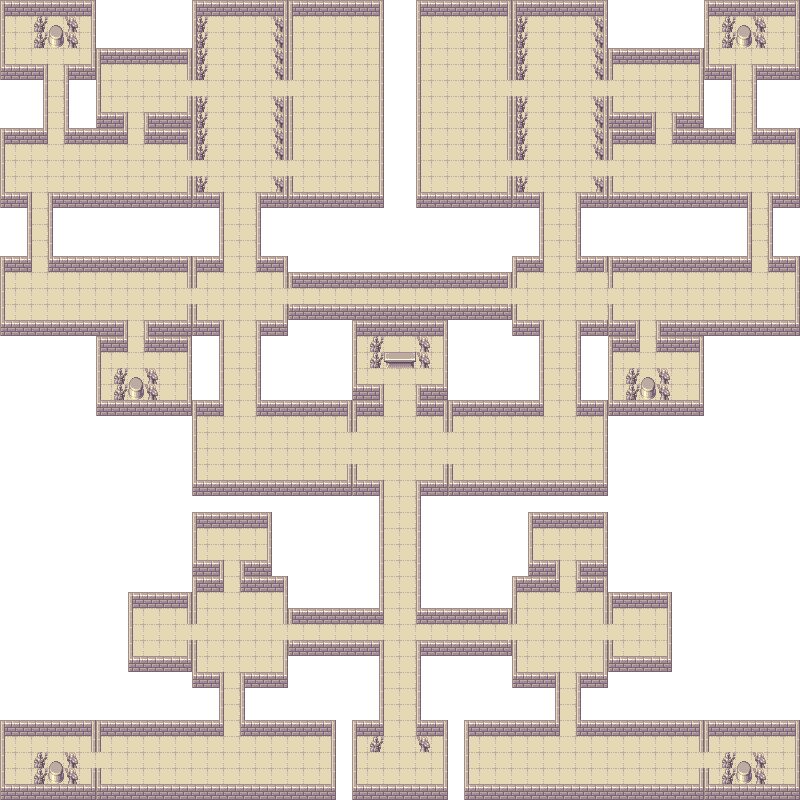
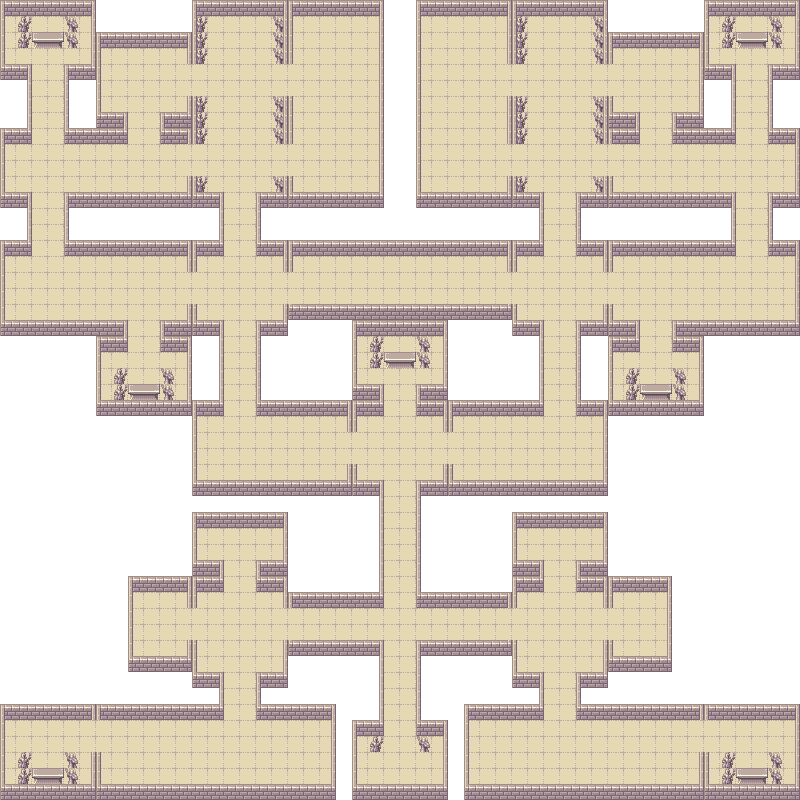
Begun adding walls to the game.

diff --git a/RaylibStarterCPP1/SonicChaos/Application.cpp b/RaylibStarterCPP1/SonicChaos/Application.cpp
@@ -37,6 +37,7 @@ void Application::Load()
 
 	// Agents
 	m_player = new PlayerAgent();
+	m_player->SetPosition({ 360, 330 });
 
 	// Behaviours
 	m_keyboardBehaviour = new KeyboardBehaviour();
@@ -48,17 +49,33 @@ void Application::Load()
 	m_camera.zoom = 8.0f;
 
 	// Walls
-	Rectangle topWall = { 0, 0, 96, 16 };
-	Rectangle leftWall = { 0, 16, 5, 48 };
-	Rectangle rightWall = { 91, 0, 5, 64 };
-	Rectangle bottomWall = { 0, 64, 43, 16 };
-	Rectangle bottomWall1 = { 69, 64, 27, 16 };
+	/*CreateTopWall(0, 0, 96, 16);
+	CreateTopWall(0, 128, 32, 16);
+	CreateTopWall(64, 128, 59, 16);
+	CreateTopWall(165, 128, 27, 16);
+	CreateTopWall(101, 32, 86, 16);
+	CreateTopWall(5, 240, 22, 16);
+	CreateTopWall(69, 240, 118, 16);
+	CreateTopWall(101, 336, 22, 16);
+	CreateTopWall(165, 336, 22, 16);
+	CreateTopWall(197, 0, 86, 16);
+	CreateTopWall(293, 0, 86, 16);*/
 
-	m_topWalls.push_back(topWall);
-	m_leftWalls.push_back(leftWall);
-	m_rightWalls.push_back(rightWall);
-	m_bottomWalls.push_back(bottomWall);
-	m_bottomWalls.push_back(bottomWall1);
+	//LoadLeftWall();
+	LoadRightWall();
+
+	/*CreateBottomWall(0, 64, 27, 16);
+	CreateBottomWall(69, 64, 27, 16);
+	CreateBottomWall(0, 192, 27, 16);
+	CreateBottomWall(69, 192, 123, 16);
+	CreateBottomWall(101, 112, 22, 16);
+	CreateBottomWall(165, 112, 22, 16);
+	CreateBottomWall(5, 320, 118, 16);
+	CreateBottomWall(165, 320, 22, 16);
+	CreateBottomWall(101, 400, 86, 16);
+	CreateBottomWall(197, 192, 22, 16);
+	CreateBottomWall(261, 192, 22, 16);
+	CreateBottomWall(293, 192, 86, 16);*/
 }
 
 void Application::Unload()
@@ -116,7 +133,7 @@ void Application::Draw()
 
 	ClearBackground(RAYWHITE);
 
-	BeginMode2D(m_camera);
+	//BeginMode2D(m_camera);
 
 	DrawTexture(m_map, 0, 0, WHITE);
 	m_player->Draw();
@@ -141,7 +158,167 @@ void Application::Draw()
 		DrawRectangle(m_bottomWalls[i].x, m_bottomWalls[i].y, m_bottomWalls[i].width, m_bottomWalls[i].height, BLACK);
 	}
 
-	EndMode2D();
+	//EndMode2D();
 
 	EndDrawing();
+}
+
+void Application::CreateTopWall(float x, float y, float width, float height)
+{
+	Rectangle topWall = { x, y, width, height };
+	m_topWalls.push_back(topWall);
+}
+
+void Application::CreateLeftWall(float x, float y, float width, float height)
+{
+	Rectangle leftWall = { x, y, width, height };
+	m_leftWalls.push_back(leftWall);
+}
+
+void Application::CreateRightWall(float x, float y, float width, float height)
+{
+	Rectangle rightWall = { x, y, width, height };
+	m_rightWalls.push_back(rightWall);
+}
+
+void Application::CreateBottomWall(float x, float y, float width, float height)
+{
+	Rectangle bottomWall = { x, y, width, height };
+	m_bottomWalls.push_back(bottomWall);
+}
+
+void Application::LoadLeftWall()
+{
+	CreateLeftWall(0, 16, 5, 48);
+	CreateLeftWall(0, 144, 5, 48);
+	CreateLeftWall(0, 240, 5, 96);
+	CreateLeftWall(0, 704, 5, 96);
+	CreateLeftWall(27, 64, 5, 64);
+	CreateLeftWall(27, 192, 5, 64);
+	CreateLeftWall(96, 32, 5, 96);
+	CreateLeftWall(96, 336, 5, 80);
+	CreateLeftWall(96, 704, 5, 16);
+	CreateLeftWall(96, 752, 5, 48);
+	CreateLeftWall(123, 112, 5, 32);
+	CreateLeftWall(123, 320, 5, 32);
+	CreateLeftWall(128, 576, 5, 96);
+	CreateLeftWall(192, 0, 5, 64);
+	CreateLeftWall(192, 96, 5, 48);
+	CreateLeftWall(192, 176, 5, 32);
+	CreateLeftWall(192, 240, 5, 32);
+	CreateLeftWall(192, 304, 5, 32);
+	CreateLeftWall(192, 400, 5, 96);
+	CreateLeftWall(192, 512, 5, 96);
+	CreateLeftWall(192, 640, 5, 48);
+	CreateLeftWall(219, 192, 5, 64);
+	CreateLeftWall(219, 320, 5, 96);
+	CreateLeftWall(219, 560, 5, 32);
+	CreateLeftWall(219, 672, 5, 48);
+	CreateLeftWall(288, 0, 5, 64);
+	CreateLeftWall(288, 96, 5, 48);
+	CreateLeftWall(288, 176, 5, 32);
+	CreateLeftWall(288, 240, 5, 32);
+	CreateLeftWall(288, 592, 5, 16);
+	CreateLeftWall(352, 320, 5, 112);
+	CreateLeftWall(352, 464, 5, 32);
+	CreateLeftWall(352, 720, 5, 80);
+	CreateLeftWall(379, 384, 5, 32);
+	CreateLeftWall(379, 480, 5, 128);
+	CreateLeftWall(379, 640, 5, 96);
+	CreateLeftWall(416, 0, 5, 208);
+	CreateLeftWall(448, 400, 5, 32);
+	CreateLeftWall(448, 464, 5, 32);
+	CreateLeftWall(512, 0, 5, 64);
+	CreateLeftWall(512, 96, 5, 48);
+	CreateLeftWall(512, 176, 5, 32);
+	CreateLeftWall(512, 240, 5, 32);
+	CreateLeftWall(512, 304, 5, 32);
+	CreateLeftWall(512, 512, 5, 96);
+	CreateLeftWall(512, 640, 5, 48);
+	CreateLeftWall(539, 192, 5, 64);
+	CreateLeftWall(539, 320, 5, 96);
+	CreateLeftWall(539, 560, 5, 32);
+	CreateLeftWall(539, 672, 5, 48);
+	CreateLeftWall(608, 32, 5, 32);
+	CreateLeftWall(608, 96, 5, 48);
+	CreateLeftWall(608, 176, 5, 32);
+	CreateLeftWall(608, 240, 5, 32);
+	CreateLeftWall(608, 304, 5, 112);
+	CreateLeftWall(608, 576, 5, 32);
+	CreateLeftWall(608, 640, 5, 32);
+	CreateLeftWall(635, 112, 5, 32);
+	CreateLeftWall(635, 320, 5, 32);
+	CreateLeftWall(704, 0, 5, 80);
+	CreateLeftWall(704, 704, 5, 16);
+	CreateLeftWall(704, 752, 5, 48);
+	CreateLeftWall(731, 64, 5, 80);
+	CreateLeftWall(731, 192, 5, 64);
+}
+
+void Application::LoadRightWall()
+{
+	CreateRightWall(64, 64, 5, 80);
+	CreateRightWall(64, 192, 5, 64);
+	CreateRightWall(91, 0, 5, 80);
+	CreateRightWall(91, 704, 5, 16);
+	CreateRightWall(91, 752, 5, 48);
+	CreateRightWall(160, 112, 5, 32);
+	CreateRightWall(160, 320, 5, 32);
+	CreateRightWall(187, 32, 5, 32);
+	CreateRightWall(187, 96, 5, 48);
+	CreateRightWall(187, 176, 5, 32);
+	CreateRightWall(187, 240, 5, 32);
+	CreateRightWall(187, 304, 5, 112);
+	CreateRightWall(187, 576, 5, 32);
+	CreateRightWall(187, 640, 5, 32);
+	CreateRightWall(256, 192, 5, 64);
+	CreateRightWall(256, 320, 5, 96);
+	CreateRightWall(256, 560, 5, 32);
+	CreateRightWall(256, 672, 5, 48);
+	CreateRightWall(283, 0, 5, 64);
+	CreateRightWall(283, 96, 5, 48);
+	CreateRightWall(283, 176, 5, 32);
+	CreateRightWall(283, 240, 5, 32);
+	CreateRightWall(283, 304, 5, 32);
+	CreateRightWall(283, 512, 5, 96);
+	CreateRightWall(283, 640, 5, 48);
+	CreateRightWall(347, 400, 5, 32);
+	CreateRightWall(347, 464, 5, 32);
+	CreateRightWall(379, 0, 5, 208);
+	CreateRightWall(416, 384, 5, 32);
+	CreateRightWall(416, 480, 5, 128);
+	CreateRightWall(416, 640, 5, 96);
+	CreateRightWall(443, 320, 5, 112);
+	CreateRightWall(443, 464, 5, 32);
+	CreateRightWall(443, 720, 5, 80);
+	CreateRightWall(507, 0, 5, 64);
+	CreateRightWall(507, 96, 5, 48);
+	CreateRightWall(507, 176, 5, 32);
+	CreateRightWall(507, 240, 5, 32);
+	CreateRightWall(507, 592, 5, 16);
+	CreateRightWall(576, 192, 5, 64);
+	CreateRightWall(576, 320, 5, 96);
+	CreateRightWall(576, 560, 5, 32);
+	CreateRightWall(576, 672, 5, 48);
+	CreateRightWall(603, 0, 5, 64);
+	CreateRightWall(603, 96, 5, 48);
+	CreateRightWall(603, 176, 5, 32);
+	CreateRightWall(603, 240, 5, 32);
+	CreateRightWall(603, 304, 5, 32);
+	CreateRightWall(603, 400, 5, 96);
+	CreateRightWall(603, 512, 5, 96);
+	CreateRightWall(603, 640, 5, 48);
+	CreateRightWall(667, 576, 5, 96);
+	CreateRightWall(672, 112, 5, 32);
+	CreateRightWall(672, 320, 5, 32);
+	CreateRightWall(704, 32, 5, 96);
+	CreateRightWall(704, 336, 5, 80);
+	CreateRightWall(704, 704, 5, 16);
+	CreateRightWall(704, 752, 5, 48);
+	CreateRightWall(768, 64, 5, 64);
+	CreateRightWall(768, 192, 5, 64);
+	CreateRightWall(795, 16, 5, 48);
+	CreateRightWall(795, 144, 5, 48);
+	CreateRightWall(795, 240, 5, 96);
+	CreateRightWall(795, 704, 5, 96);
 }

diff --git a/RaylibStarterCPP1/SonicChaos/PlayerAgent.cpp b/RaylibStarterCPP1/SonicChaos/PlayerAgent.cpp
@@ -2,11 +2,11 @@
 
 PlayerAgent::PlayerAgent()
 {
-	m_texture = LoadTexture("C:/Users/logan/Desktop/AIEGameAIAssignment/Resources/myTilemap/Sonic.png");
+	m_texture = LoadTexture("C:/Users/logan/Desktop/AIEGameAIAssignment/Resources/myTilemap/Shadow.png");
 
 	m_topAABB = { m_position.x, m_position.y, (float)m_texture.width, 1.0f };
 	m_leftAABB = { m_position.x, m_position.y, 1.0f, (float)m_texture.height };
-	m_rightAABB = { m_position.x + 15.0f, m_position.y, 1.0f, (float)m_texture.height };
+	m_rightAABB = { m_position.x + (float)m_texture.width, m_position.y, 1.0f, (float)m_texture.height };
 	m_bottomAABB = { m_position.x, m_position.y + ((float)m_texture.height - 1.0f), (float)m_texture.width, 1.0f};
 }
 
@@ -19,7 +19,7 @@ void PlayerAgent::Update(float deltaTime)
 {
 	m_topAABB = { m_position.x, m_position.y, (float)m_texture.width, 1.0f };
 	m_leftAABB = { m_position.x, m_position.y, 1.0f, (float)m_texture.height };
-	m_rightAABB = { m_position.x + 15.0f, m_position.y, 1.0f, (float)m_texture.height };
+	m_rightAABB = { m_position.x + (float)m_texture.width, m_position.y, 1.0f, (float)m_texture.height };
 	m_bottomAABB = { m_position.x, m_position.y + ((float)m_texture.height - 1.0f), (float)m_texture.width, 1.0f };
 	
 	Agent::Update(deltaTime);

diff --git a/RaylibStarterCPP1/SonicChaos/Application.h b/RaylibStarterCPP1/SonicChaos/Application.h
@@ -21,6 +21,14 @@ private:
 	int m_windowWidth;
 	int m_windowHeight;
 
+	void LoadLeftWall();
+	void LoadRightWall();
+
+	void CreateTopWall(float x, float y, float width, float height);
+	void CreateLeftWall(float x, float y, float width, float height);
+	void CreateRightWall(float x, float y, float width, float height);
+	void CreateBottomWall(float x, float y, float width, float height);
+
 	PlayerAgent* m_player = nullptr;
 	
 	KeyboardBehaviour* m_keyboardBehaviour = nullptr;
